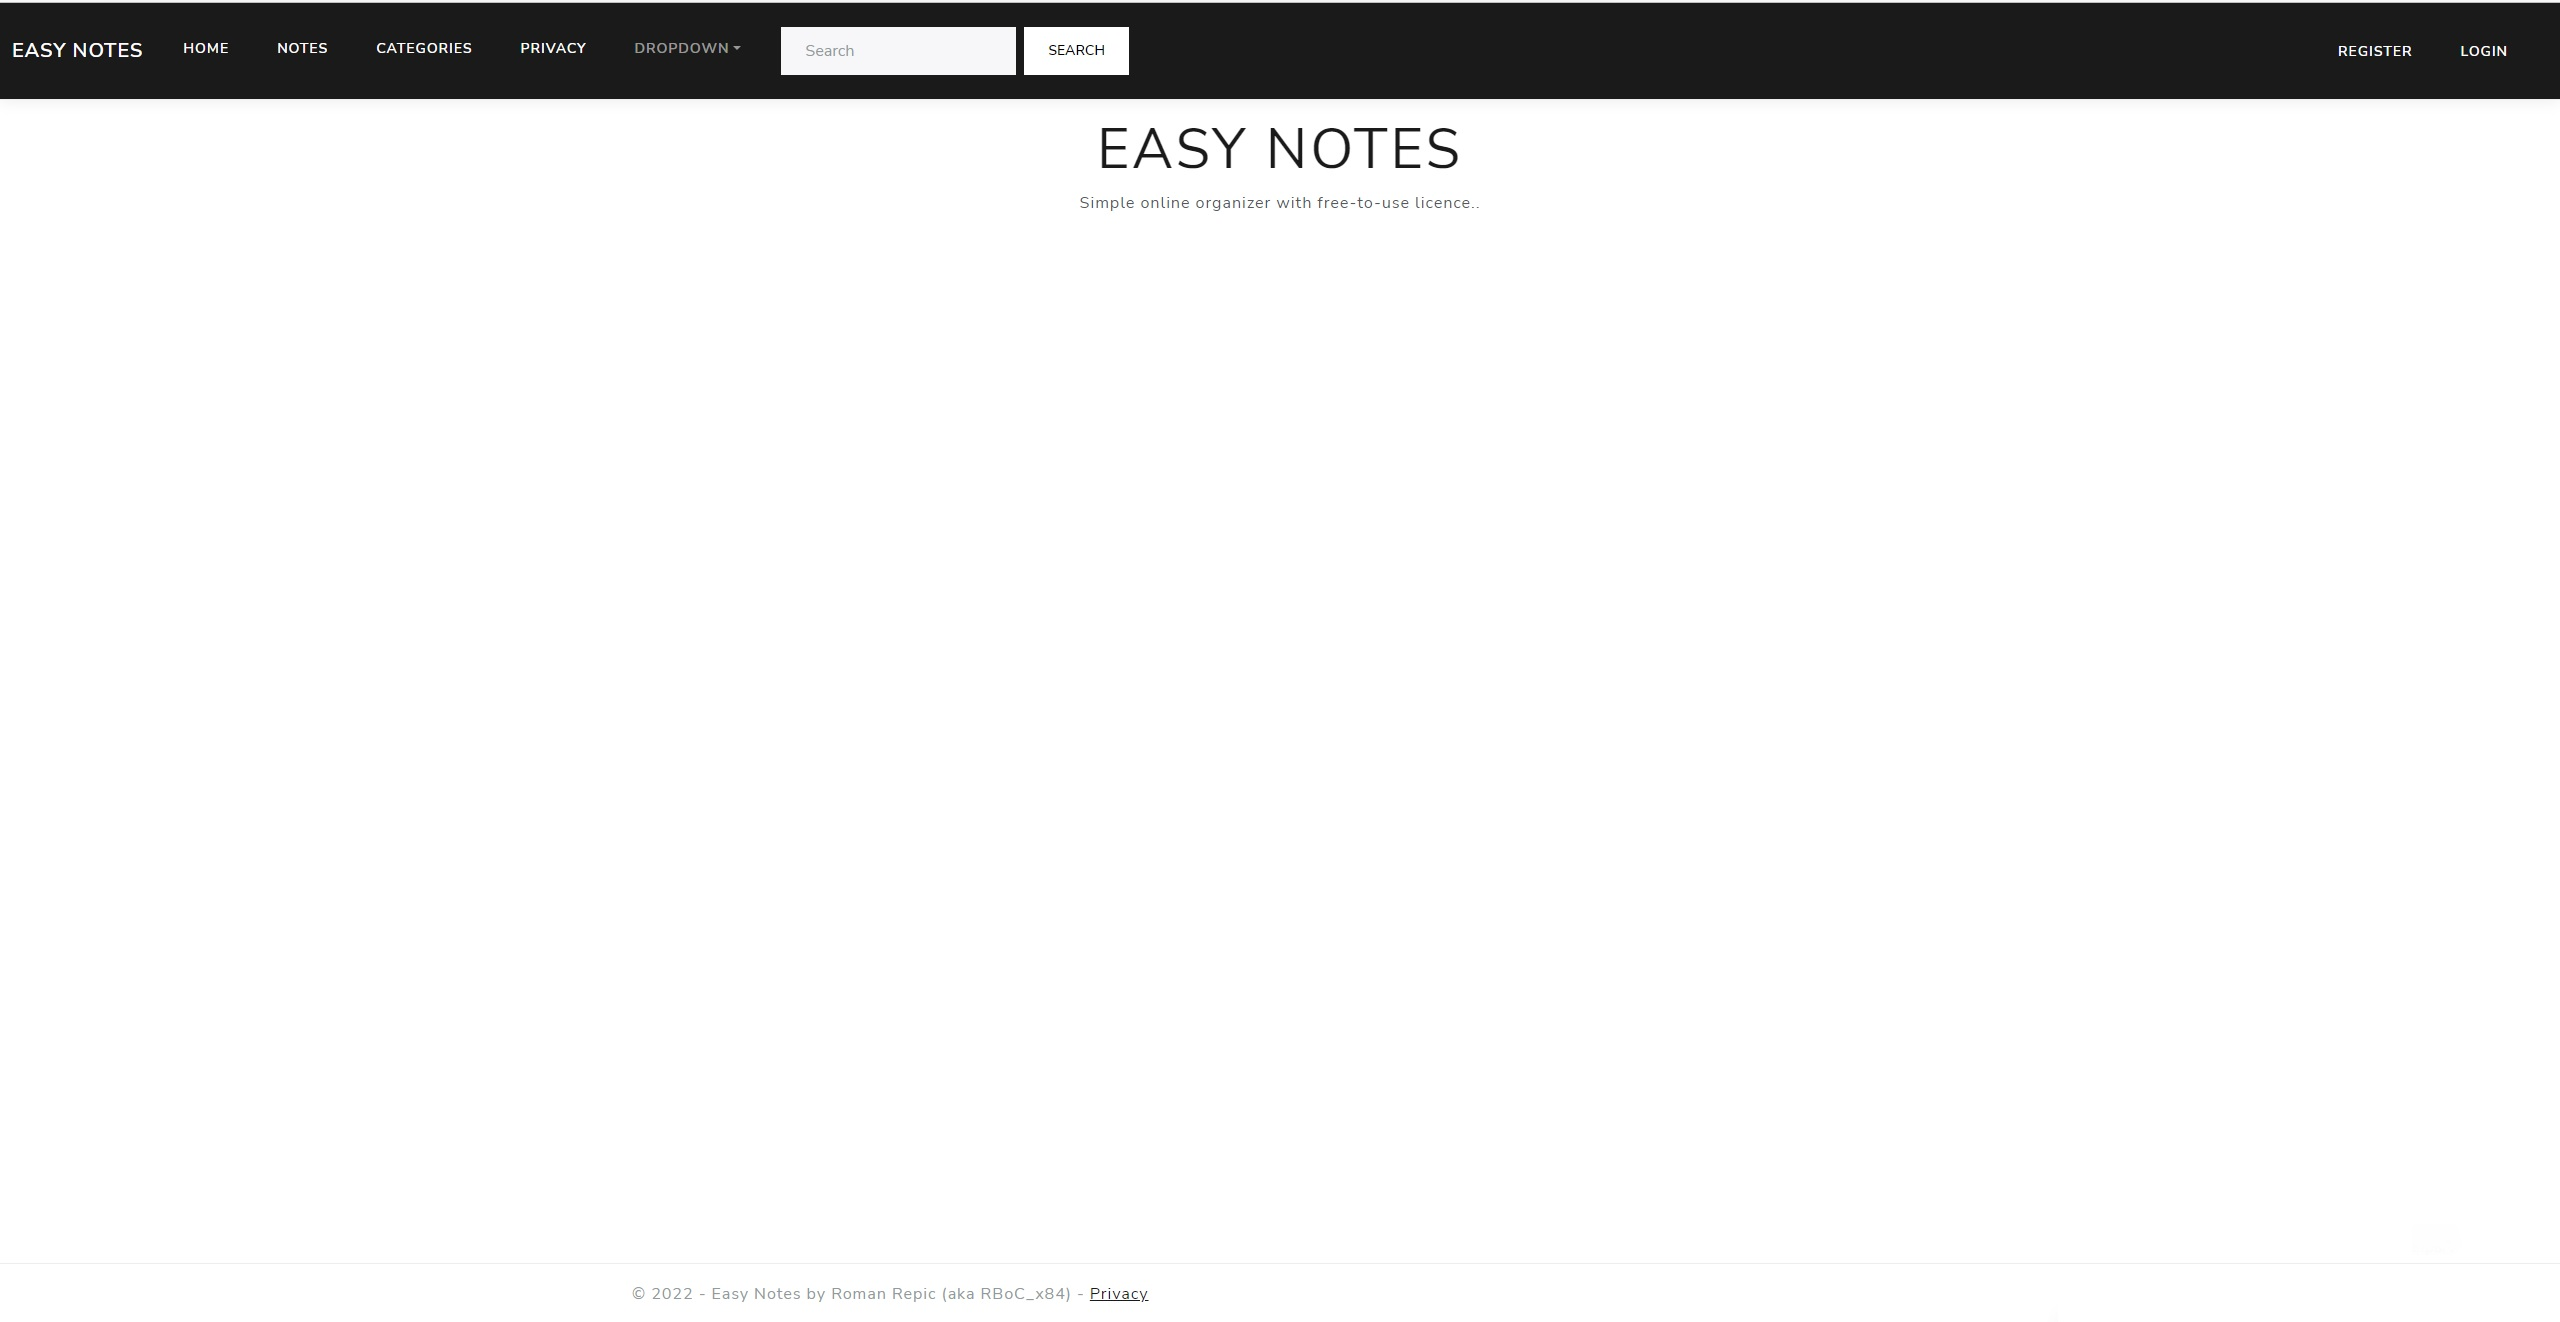
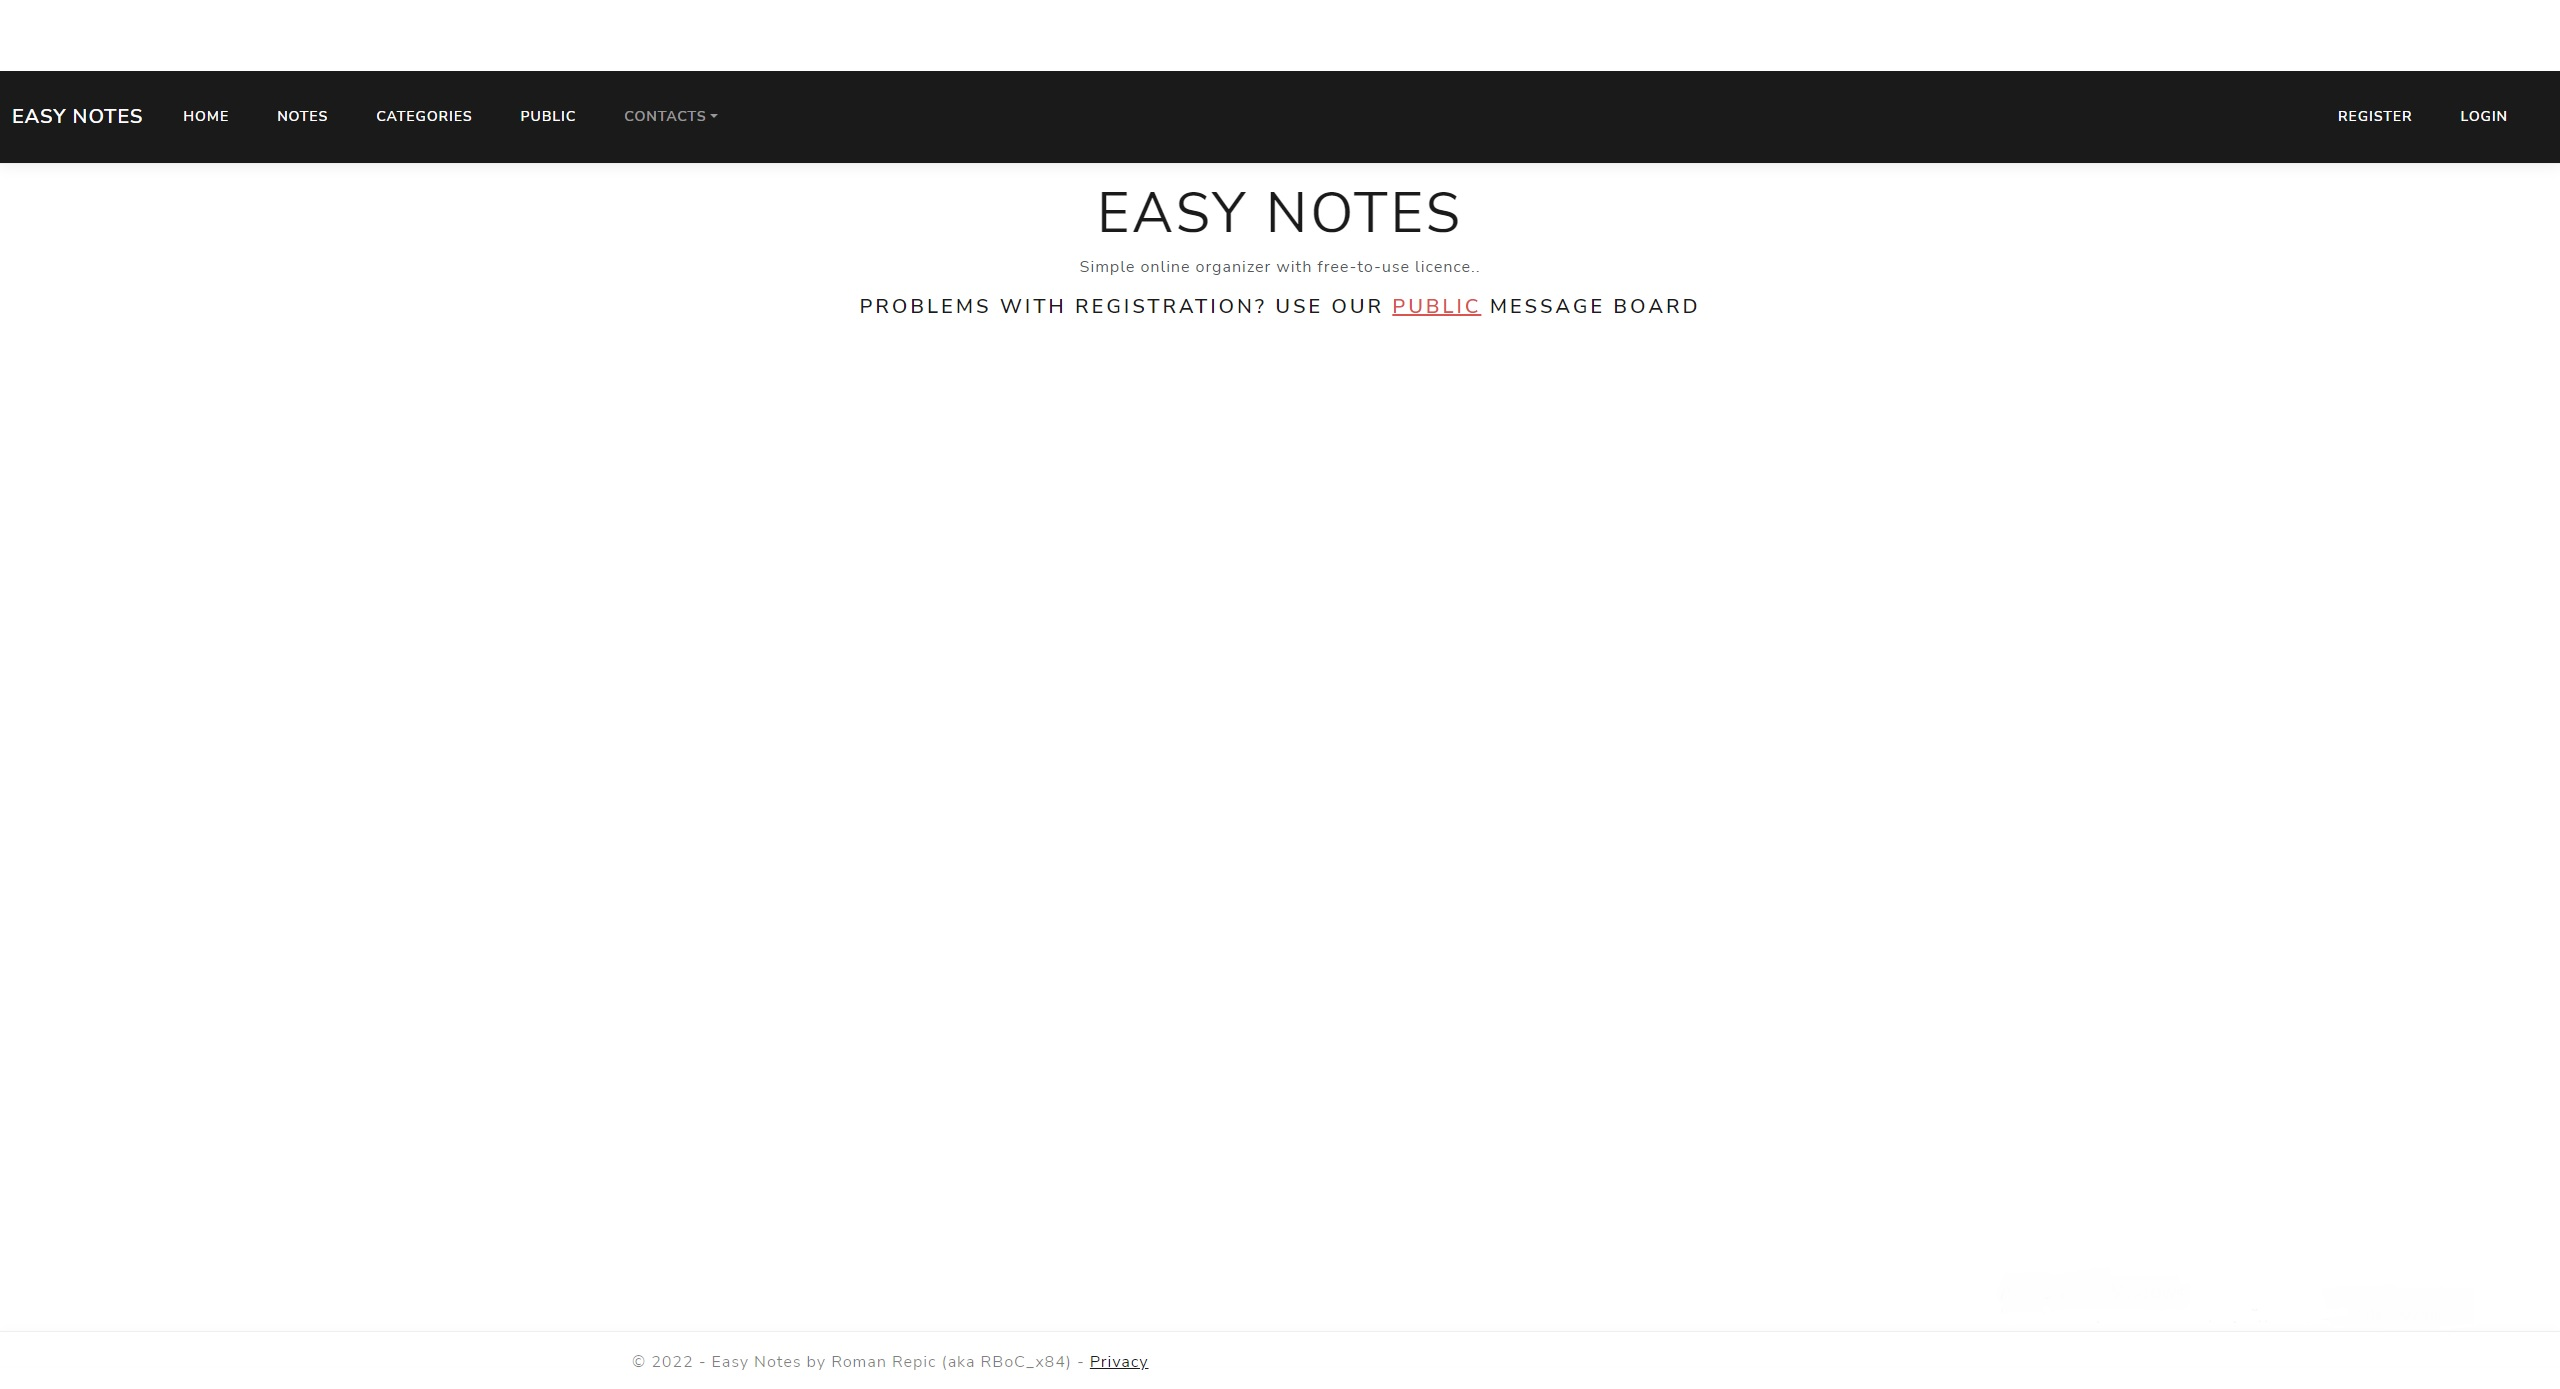
Public Notes Page added for public messages(no authorization required)

Changed region(s): [[0.0, 0.0, 1.0, 0.2481], [0.25, 0.9614, 0.4375, 0.9924], [0.3438, 0.2171, 0.4375, 0.2481]]

diff --git a/EasyNotes.WebApp.Mvc/Migrations/20220725185225_InitialCreate.Designer.cs b/EasyNotes.WebApp.Mvc/Migrations/20220725185225_InitialCreate.Designer.cs
@@ -12,14 +12,14 @@ using Microsoft.EntityFrameworkCore.Storage.ValueConversion;
 namespace EasyNotes.WebApp.Mvc.Migrations
 {
     [DbContext(typeof(ApplicationDbContext))]
-    [Migration("20220725141611_InitialCreate")]
+    [Migration("20220725185225_InitialCreate")]
     partial class InitialCreate
     {
         protected override void BuildTargetModel(ModelBuilder modelBuilder)
         {
 #pragma warning disable 612, 618
             modelBuilder
-                .HasAnnotation("ProductVersion", "6.0.5")
+                .HasAnnotation("ProductVersion", "6.0.7")
                 .HasAnnotation("Relational:MaxIdentifierLength", 128);
 
             SqlServerModelBuilderExtensions.UseIdentityColumns(modelBuilder, 1L, 1);
@@ -42,8 +42,8 @@ namespace EasyNotes.WebApp.Mvc.Migrations
                     b.Property<long?>("NoteId")
                         .HasColumnType("bigint");
 
-                    b.Property<Guid?>("UserID")
-                        .HasColumnType("uniqueidentifier");
+                    b.Property<string>("UserName")
+                        .HasColumnType("nvarchar(max)");
 
                     b.HasKey("Id");
 
@@ -85,6 +85,28 @@ namespace EasyNotes.WebApp.Mvc.Migrations
                     b.HasIndex("CategoryId");
 
                     b.ToTable("Notes");
+                });
+
+            modelBuilder.Entity("EasyNotes.WebApp.Mvc.Models.PublicNote", b =>
+                {
+                    b.Property<Guid>("Id")
+                        .ValueGeneratedOnAdd()
+                        .HasColumnType("uniqueidentifier");
+
+                    b.Property<string>("Content")
+                        .IsRequired()
+                        .HasColumnType("nvarchar(max)");
+
+                    b.Property<DateTime>("CreateDate")
+                        .HasColumnType("datetime2");
+
+                    b.Property<string>("Name")
+                        .IsRequired()
+                        .HasColumnType("nvarchar(max)");
+
+                    b.HasKey("Id");
+
+                    b.ToTable("PublicNotes");
                 });
 
             modelBuilder.Entity("Microsoft.AspNetCore.Identity.IdentityRole", b =>

diff --git a/EasyNotes.WebApp.Mvc/Controllers/NotesController.cs b/EasyNotes.WebApp.Mvc/Controllers/NotesController.cs
@@ -17,13 +17,21 @@ namespace EasyNotes.WebApp.Mvc.Controllers
         [Authorize]
         public IActionResult Index()
         {
+            var notesList = new List<Note>();
             var userName = User.Identity.Name;
-            IEnumerable<Note> objNotesList = _context.Notes.ToList();
-            
+            //IEnumerable<Note> objNotesList = _context.Notes.ToList();
+            foreach(Note note in _context.Notes)
+            {
+                if (note.UserName == userName)
+                {
+                    notesList.Add(note);
+                }
+            }
+                
 
 
 
-            return View(objNotesList);
+            return View(notesList);
         }
 
         //GET
@@ -43,7 +51,7 @@ namespace EasyNotes.WebApp.Mvc.Controllers
                 obj.UserName = User.Identity.Name.ToLower();
                 _context.Notes.Add(obj);
                 _context.SaveChanges();
-                TempData["Success"] = "Note successfully created!";
+                TempData["success"] = "Note successfully created!";
                 return RedirectToAction("Index");
             }
             
@@ -76,9 +84,10 @@ namespace EasyNotes.WebApp.Mvc.Controllers
 
             if (ModelState.IsValid)
             {
+                obj.UserName = User.Identity.Name.ToLower();
                 _context.Notes.Update(obj);
                 _context.SaveChanges();
-                TempData["Success"] = "Note successfully updated!";
+                TempData["success"] = "Note successfully updated!";
                 return RedirectToAction("Index");
             }
 
@@ -115,7 +124,7 @@ namespace EasyNotes.WebApp.Mvc.Controllers
             }
             _context.Notes.Remove(obj);
             _context.SaveChanges();
-            TempData["Success"] = "Note successfully deleted!";
+            TempData["success"] = "Note successfully deleted!";
             return RedirectToAction("Index");
         }
     }

diff --git a/EasyNotes.WebApp.Mvc/Migrations/20220725185225_InitialCreate.cs b/EasyNotes.WebApp.Mvc/Migrations/20220725185225_InitialCreate.cs
@@ -49,6 +49,20 @@ namespace EasyNotes.WebApp.Mvc.Migrations
                 });
 
             migrationBuilder.CreateTable(
+                name: "PublicNotes",
+                columns: table => new
+                {
+                    Id = table.Column<Guid>(type: "uniqueidentifier", nullable: false),
+                    Name = table.Column<string>(type: "nvarchar(max)", nullable: false),
+                    Content = table.Column<string>(type: "nvarchar(max)", nullable: false),
+                    CreateDate = table.Column<DateTime>(type: "datetime2", nullable: false)
+                },
+                constraints: table =>
+                {
+                    table.PrimaryKey("PK_PublicNotes", x => x.Id);
+                });
+
+            migrationBuilder.CreateTable(
                 name: "AspNetRoleClaims",
                 columns: table => new
                 {
@@ -162,7 +176,7 @@ namespace EasyNotes.WebApp.Mvc.Migrations
                         .Annotation("SqlServer:Identity", "1, 1"),
                     CategoryName = table.Column<string>(type: "nvarchar(max)", nullable: false),
                     Description = table.Column<string>(type: "nvarchar(max)", nullable: true),
-                    UserID = table.Column<Guid>(type: "uniqueidentifier", nullable: true),
+                    UserName = table.Column<string>(type: "nvarchar(max)", nullable: true),
                     NoteId = table.Column<long>(type: "bigint", nullable: true)
                 },
                 constraints: table =>
@@ -270,6 +284,9 @@ namespace EasyNotes.WebApp.Mvc.Migrations
 
             migrationBuilder.DropTable(
                 name: "AspNetUserTokens");
+
+            migrationBuilder.DropTable(
+                name: "PublicNotes");
 
             migrationBuilder.DropTable(
                 name: "AspNetRoles");

diff --git a/EasyNotes.WebApp.Mvc/Migrations/ApplicationDbContextModelSnapshot.cs b/EasyNotes.WebApp.Mvc/Migrations/ApplicationDbContextModelSnapshot.cs
@@ -17,7 +17,7 @@ namespace EasyNotes.WebApp.Mvc.Migrations
         {
 #pragma warning disable 612, 618
             modelBuilder
-                .HasAnnotation("ProductVersion", "6.0.5")
+                .HasAnnotation("ProductVersion", "6.0.7")
                 .HasAnnotation("Relational:MaxIdentifierLength", 128);
 
             SqlServerModelBuilderExtensions.UseIdentityColumns(modelBuilder, 1L, 1);
@@ -40,8 +40,8 @@ namespace EasyNotes.WebApp.Mvc.Migrations
                     b.Property<long?>("NoteId")
                         .HasColumnType("bigint");
 
-                    b.Property<Guid?>("UserID")
-                        .HasColumnType("uniqueidentifier");
+                    b.Property<string>("UserName")
+                        .HasColumnType("nvarchar(max)");
 
                     b.HasKey("Id");
 
@@ -83,6 +83,28 @@ namespace EasyNotes.WebApp.Mvc.Migrations
                     b.HasIndex("CategoryId");
 
                     b.ToTable("Notes");
+                });
+
+            modelBuilder.Entity("EasyNotes.WebApp.Mvc.Models.PublicNote", b =>
+                {
+                    b.Property<Guid>("Id")
+                        .ValueGeneratedOnAdd()
+                        .HasColumnType("uniqueidentifier");
+
+                    b.Property<string>("Content")
+                        .IsRequired()
+                        .HasColumnType("nvarchar(max)");
+
+                    b.Property<DateTime>("CreateDate")
+                        .HasColumnType("datetime2");
+
+                    b.Property<string>("Name")
+                        .IsRequired()
+                        .HasColumnType("nvarchar(max)");
+
+                    b.HasKey("Id");
+
+                    b.ToTable("PublicNotes");
                 });
 
             modelBuilder.Entity("Microsoft.AspNetCore.Identity.IdentityRole", b =>

diff --git a/EasyNotes.WebApp.Mvc/Controllers/PublicNotesController.cs b/EasyNotes.WebApp.Mvc/Controllers/PublicNotesController.cs
@@ -1,0 +1,46 @@
+using EasyNotes.WebApp.Mvc.Data;
+using EasyNotes.WebApp.Mvc.Models;
+using Microsoft.AspNetCore.Mvc;
+
+namespace EasyNotes.WebApp.Mvc.Controllers
+{
+    public class PublicNotesController : Controller
+    {
+        private readonly ApplicationDbContext _context;
+
+        public PublicNotesController(ApplicationDbContext context)
+        {
+            _context = context;
+        }
+        public IActionResult Index()
+        {
+            IEnumerable<PublicNote> objNotesList = _context.PublicNotes.ToList();
+            return View(objNotesList);
+        }
+
+        //GET
+        public IActionResult Create()
+        {
+            return View();
+        }
+
+        //POST
+        [HttpPost]
+        [ValidateAntiForgeryToken]
+        public IActionResult Create(PublicNote obj)
+        {
+
+            if (ModelState.IsValid)
+            {
+                obj.Id = Guid.NewGuid();
+                obj.CreateDate = DateTime.Now;
+                _context.PublicNotes.Add(obj);
+                _context.SaveChanges();
+                TempData["success"] = "Note successfully created!";
+                return RedirectToAction("Index");
+            }
+
+            return View(obj);
+        }
+    }
+}

diff --git a/EasyNotes.WebApp.Mvc/Controllers/CategoriesController.cs b/EasyNotes.WebApp.Mvc/Controllers/CategoriesController.cs
@@ -1,0 +1,30 @@
+using System;
+using System.Collections.Generic;
+using System.Linq;
+using System.Threading.Tasks;
+using Microsoft.AspNetCore.Mvc;
+using Microsoft.AspNetCore.Mvc.Rendering;
+using Microsoft.EntityFrameworkCore;
+using EasyNotes.WebApp.Mvc.Data;
+using EasyNotes.WebApp.Mvc.Models;
+
+namespace EasyNotes.WebApp.Mvc.Controllers
+{
+    public class CategoriesController : Controller
+    {
+        private readonly ApplicationDbContext _context;
+
+        public CategoriesController(ApplicationDbContext context)
+        {
+            _context = context;
+        }
+
+        // GET: Categories
+        public async Task<IActionResult> Index()
+        {
+              return _context.Categories != null ? 
+                          View(await _context.Categories.ToListAsync()) :
+                          Problem("Entity set 'ApplicationDbContext.Categories'  is null.");
+        }
+    }
+}

diff --git a/EasyNotes.WebApp.Mvc/Models/Category.cs b/EasyNotes.WebApp.Mvc/Models/Category.cs
@@ -1,4 +1,5 @@
-using System.ComponentModel.DataAnnotations;
+using System.ComponentModel;
+using System.ComponentModel.DataAnnotations;
 
 namespace EasyNotes.WebApp.Mvc.Models
 {
@@ -7,9 +8,10 @@ namespace EasyNotes.WebApp.Mvc.Models
         [Key]
         public uint Id { get; set; }
         [Required]
+        [DisplayName("Catergory Name")]
         public string CategoryName { get; set; }
         public string ?Description { get; set; }
-        //public List<Note> ?Notes { get; set; }
-        public Guid ?UserID { get; set; }
+        //public List<Note>? Notes { set; get; }
+        public string? UserName { get; set; }
     }
 }

diff --git a/EasyNotes.WebApp.Mvc/Models/PublicNote.cs b/EasyNotes.WebApp.Mvc/Models/PublicNote.cs
@@ -1,0 +1,19 @@
+using System.ComponentModel;
+using System.ComponentModel.DataAnnotations;
+
+namespace EasyNotes.WebApp.Mvc.Models
+{
+    public class PublicNote
+    {
+        [Key]
+        public Guid Id { set; get; }
+        [Required]
+        public string Name { set; get; }
+        [DisplayName("Message")]
+        [Required]
+        public string Content { set; get; }
+        [DisplayName("Create Date/Time")]
+        public DateTime CreateDate { set; get; }
+
+    }
+}

diff --git a/EasyNotes.WebApp.Mvc/Data/ApplicationDbContext.cs b/EasyNotes.WebApp.Mvc/Data/ApplicationDbContext.cs
@@ -13,8 +13,7 @@ namespace EasyNotes.WebApp.Mvc.Data
 
         public DbSet<Note> Notes { get; set; }
         public DbSet<Category> Categories { get; set; }
+        public DbSet<PublicNote> PublicNotes { get; set; }
     }
-
-
 
 }
